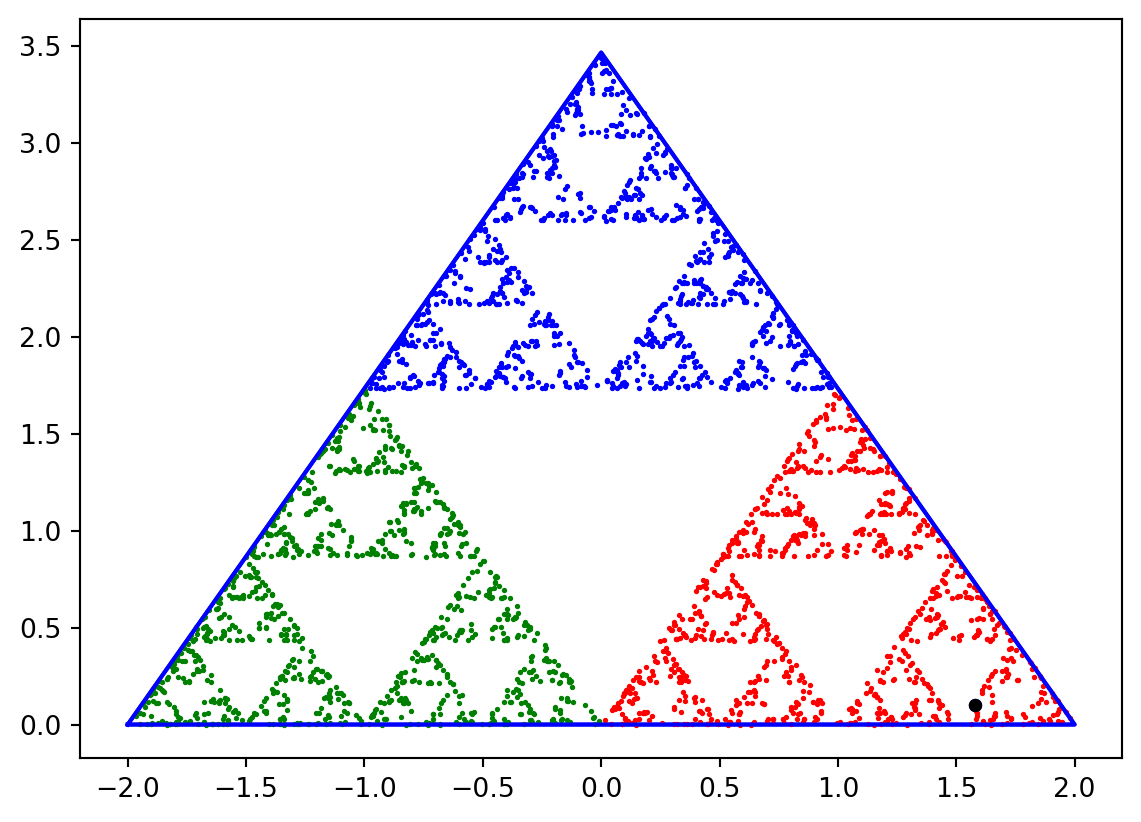
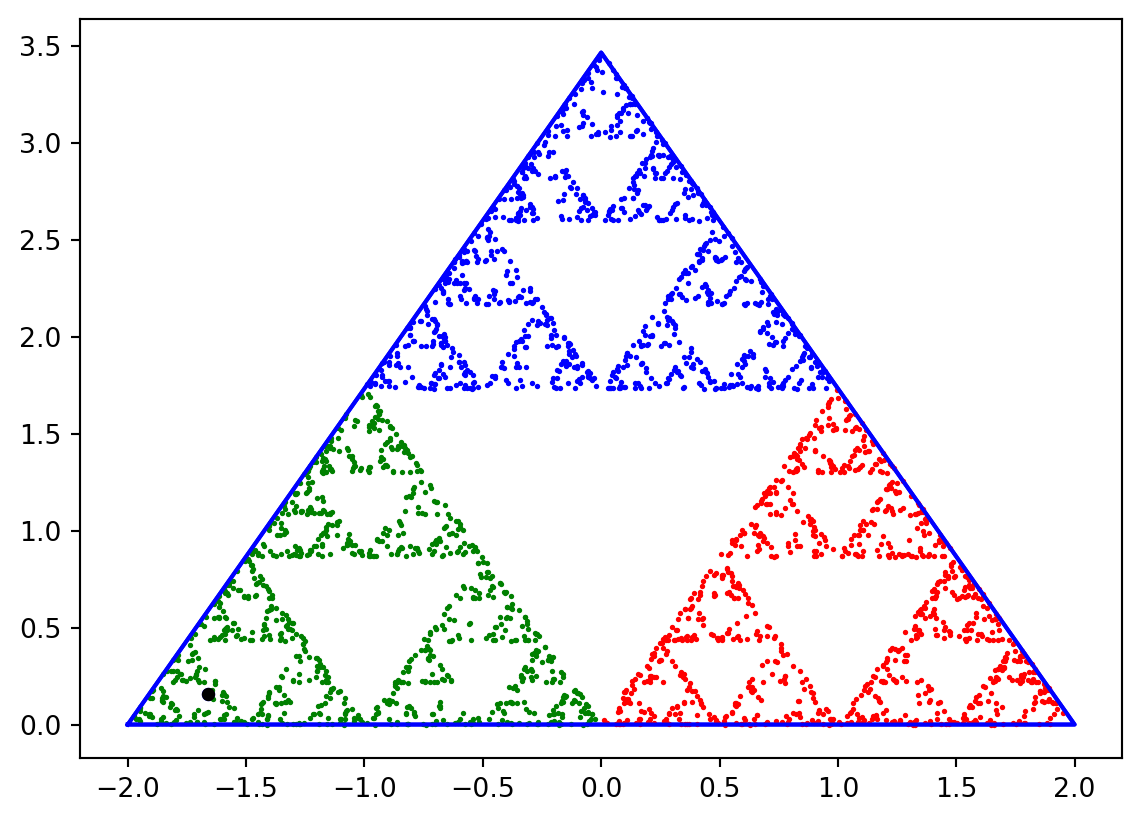
post: triângulo de sierpinski

Changed region(s): [[0.1227, 0.0608, 0.9509, 0.882]]

diff --git a/docs/blog.html b/docs/blog.html
@@ -256,7 +256,43 @@ window.Quarto = {
     </div>
 </div>
 <div class="list quarto-listing-default">
-<div class="quarto-post image-right" data-index="0" data-categories="matemática,ensino,gaal,geometria" data-listing-date-sort="1744167600000" data-listing-file-modified-sort="1745101744349" data-listing-date-modified-sort="NaN" data-listing-reading-time-sort="1" data-listing-word-count-sort="58">
+<div class="quarto-post image-right" data-index="0" data-categories="python,matematica" data-listing-date-sort="1746241200000" data-listing-file-modified-sort="1746313711410" data-listing-date-modified-sort="NaN" data-listing-reading-time-sort="3" data-listing-word-count-sort="467">
+<div class="thumbnail">
+<p><a href="./posts/triangulo-sierpinski/trinagulo-sierpinski.html" class="no-external"></a></p><a href="./posts/triangulo-sierpinski/trinagulo-sierpinski.html" class="no-external">
+<p class="card-img-top"><img src="posts/triangulo-sierpinski/SierpinskiTriangle.png"  class="thumbnail-image card-img"/></p>
+</a><p><a href="./posts/triangulo-sierpinski/trinagulo-sierpinski.html" class="no-external"></a></p>
+</div>
+<div class="body">
+<h3 class="no-anchor listing-title">
+<a href="./posts/triangulo-sierpinski/trinagulo-sierpinski.html" class="no-external">Triângulo de Sierpinski com Python</a>
+</h3>
+<div class="listing-subtitle">
+<a href="./posts/triangulo-sierpinski/trinagulo-sierpinski.html" class="no-external"></a>
+</div>
+<div class="listing-categories">
+<div class="listing-category" onclick="window.quartoListingCategory('python'); return false;">
+python
+</div>
+<div class="listing-category" onclick="window.quartoListingCategory('matematica'); return false;">
+matematica
+</div>
+</div>
+<div class="listing-description">
+<a href="./posts/triangulo-sierpinski/trinagulo-sierpinski.html" class="no-external">Em uma tarde qualquer, de despretenciosa ociosidade, estava rolando o tiktok quando surgiu a seguinte descrição:</a>
+</div>
+</div>
+<div class="metadata">
+<a href="./posts/triangulo-sierpinski/trinagulo-sierpinski.html" class="no-external">
+<div class="listing-date">
+03/05/2025
+</div>
+<div class="listing-author">
+Reginaldo Demarque
+</div>
+</a>
+</div>
+</div>
+<div class="quarto-post image-right" data-index="1" data-categories="matemática,ensino,gaal,geometria" data-listing-date-sort="1744167600000" data-listing-file-modified-sort="1745101744349" data-listing-date-modified-sort="NaN" data-listing-reading-time-sort="1" data-listing-word-count-sort="58">
 <div class="thumbnail">
 <p><a href="./posts/exposicao-calculoIII-A-2015-1/exposicao.html" class="no-external"></a></p><a href="./posts/exposicao-calculoIII-A-2015-1/exposicao.html" class="no-external">
 <p class="card-img-top"><img src="posts/exposicao-calculoIII-A-2015-1/parab-hiper/marcela-soares-ed.png"  class="thumbnail-image card-img"/></p>
@@ -291,42 +327,6 @@ geometria
 <a href="./posts/exposicao-calculoIII-A-2015-1/exposicao.html" class="no-external">
 <div class="listing-date">
 09/04/2025
-</div>
-<div class="listing-author">
-Reginaldo Demarque
-</div>
-</a>
-</div>
-</div>
-<div class="quarto-post image-right" data-index="1" data-categories="python,matematica" data-listing-date-sort="1714705200000" data-listing-file-modified-sort="1746312992924" data-listing-date-modified-sort="NaN" data-listing-reading-time-sort="3" data-listing-word-count-sort="467">
-<div class="thumbnail">
-<p><a href="./posts/triangulo-sierpinski/trinagulo-sierpinski.html" class="no-external"></a></p><a href="./posts/triangulo-sierpinski/trinagulo-sierpinski.html" class="no-external">
-<p class="card-img-top"><img src="posts/triangulo-sierpinski/SierpinskiTriangle.png"  class="thumbnail-image card-img"/></p>
-</a><p><a href="./posts/triangulo-sierpinski/trinagulo-sierpinski.html" class="no-external"></a></p>
-</div>
-<div class="body">
-<h3 class="no-anchor listing-title">
-<a href="./posts/triangulo-sierpinski/trinagulo-sierpinski.html" class="no-external">Triângulo de Sierpinski com Python</a>
-</h3>
-<div class="listing-subtitle">
-<a href="./posts/triangulo-sierpinski/trinagulo-sierpinski.html" class="no-external"></a>
-</div>
-<div class="listing-categories">
-<div class="listing-category" onclick="window.quartoListingCategory('python'); return false;">
-python
-</div>
-<div class="listing-category" onclick="window.quartoListingCategory('matematica'); return false;">
-matematica
-</div>
-</div>
-<div class="listing-description">
-<a href="./posts/triangulo-sierpinski/trinagulo-sierpinski.html" class="no-external">Em uma tarde qualquer, de despretenciosa ociosidade, estava rolando o tiktok quando surgiu a seguinte descrição:</a>
-</div>
-</div>
-<div class="metadata">
-<a href="./posts/triangulo-sierpinski/trinagulo-sierpinski.html" class="no-external">
-<div class="listing-date">
-03/05/2024
 </div>
 <div class="listing-author">
 Reginaldo Demarque

diff --git a/docs/posts/triangulo-sierpinski/trinagulo-sierpinski.html b/docs/posts/triangulo-sierpinski/trinagulo-sierpinski.html
@@ -7,7 +7,7 @@
 <meta name="viewport" content="width=device-width, initial-scale=1.0, user-scalable=yes">
 
 <meta name="author" content="Reginaldo Demarque">
-<meta name="dcterms.date" content="2024-03-05">
+<meta name="dcterms.date" content="2025-03-05">
 
 <title>Triângulo de Sierpinski com Python – Prof.&nbsp;Reginaldo Demarque</title>
 <style>
@@ -205,7 +205,7 @@ pre > code.sourceCode > span > a:first-child::before { text-decoration: underlin
     <div>
     <div class="quarto-title-meta-heading">Data de Publicação</div>
     <div class="quarto-title-meta-contents">
-      <p class="date">03/05/2024</p>
+      <p class="date">03/05/2025</p>
     </div>
   </div>
   
@@ -265,7 +265,7 @@ Descrição
 <p>Tempos depois descobri que aquela descrição do tiktok era na verdade um algorítmo conhecido como <a href="https://en.wikipedia.org/wiki/Chaos_game">jogo do caos</a>.</p>
 <p>Este processo cria uma aproximação do Triângulo de Sierpinski. Se os pontos forem coloridos de acordo com os vértices escolhidos, por exemplo A = verde, B = vermelho e C = azul, obtém-se três Triângulos de Sierpinski coloridos dentro de um Triângulo de Sierpinski.</p>
 <p>O script que fiz, logo após o vídeo do tiktok, era bem rudimentar. A partir dele eu gerei o seguinte script melhorado que constroi o triângulo descrito no vídeo com 3000 iterações.</p>
-<div id="881cfd11" class="cell" data-execution_count="1">
+<div id="9bdaad4f" class="cell" data-execution_count="1">
 <div class="sourceCode cell-code" id="cb1"><pre class="sourceCode python code-with-copy"><code class="sourceCode python"><span id="cb1-1"><a href="#cb1-1" aria-hidden="true" tabindex="-1"></a><span class="im">import</span> sympy <span class="im">as</span> sp</span>
 <span id="cb1-2"><a href="#cb1-2" aria-hidden="true" tabindex="-1"></a><span class="im">import</span> matplotlib.pyplot <span class="im">as</span> plt</span>
 <span id="cb1-3"><a href="#cb1-3" aria-hidden="true" tabindex="-1"></a><span class="im">import</span> random <span class="im">as</span> rd</span>
@@ -333,7 +333,7 @@ B = (2.0, 0.0)
 C = (0.00, 3.46)
 
 Ponto D arbitrário no interior
-D = (1.58, 0.10)</code></pre>
+D = (-1.66, 0.16)</code></pre>
 </div>
 <div class="cell-output cell-output-display">
 <div>
